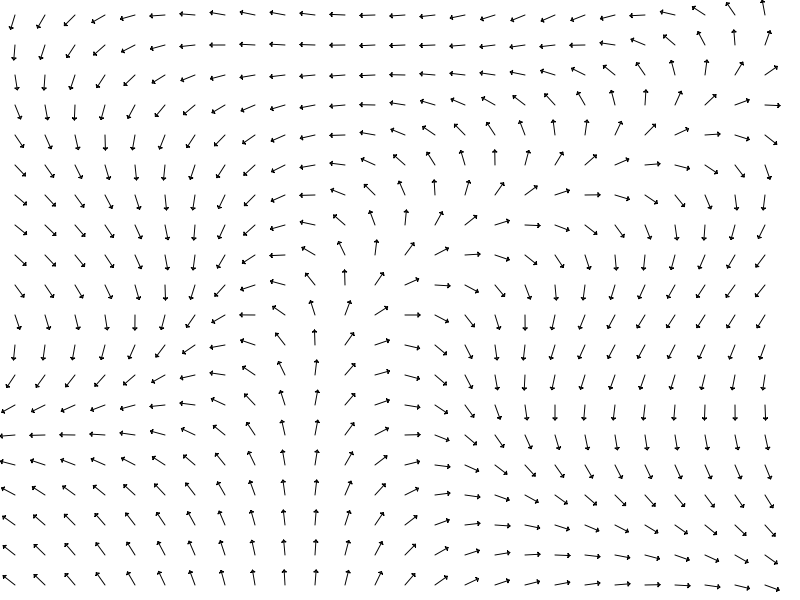
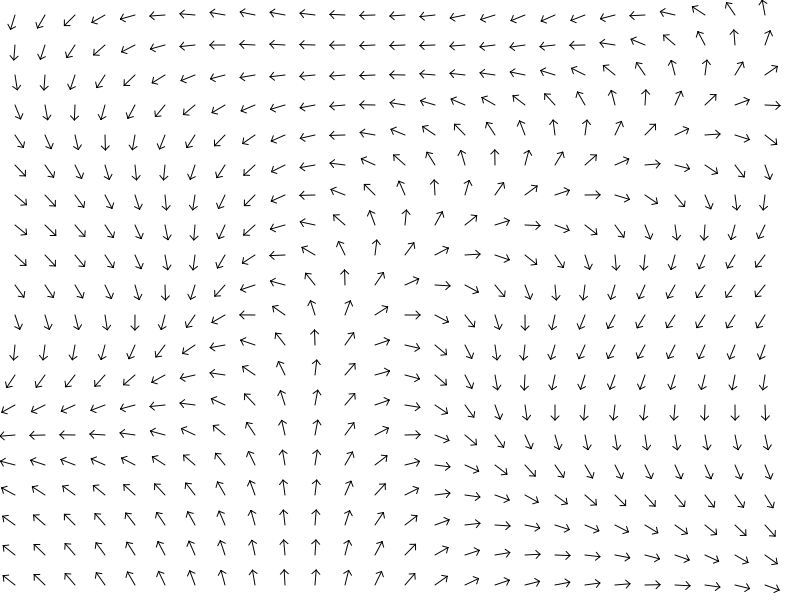
Implement curve simulation

diff --git a/core/renderer.go b/core/renderer.go
@@ -1,6 +1,10 @@
 package core
 
 import (
+	"fmt"
+	"math"
+
+	"github.com/emilwidlund/esmerelda/vectors"
 	"github.com/fogleman/gg"
 )
 
@@ -12,8 +16,8 @@ func Draw(field *VectorField) *gg.Context {
 
 	for y, row := range field.vectors {
 		for x, vector := range row {
-			halfCell := float64(field.cellSize / 2)
-			cellX, cellY := float64(x*field.cellSize)+halfCell, float64(y*field.cellSize)+halfCell
+			halfCell := field.cellSize / 2
+			cellX, cellY := x*field.cellSize+halfCell, y*field.cellSize+halfCell
 
 			if field.arrows {
 				DrawArrow(c, cellX, cellY, vector.Angle(), halfCell)
@@ -21,27 +25,94 @@ func Draw(field *VectorField) *gg.Context {
 		}
 	}
 
+	DrawSimulation(c, field)
+
 	return c
 }
 
-func DrawArrow(c *gg.Context, x float64, y float64, angle float64, length float64) {
-
-	// Initialize context stack
+func DrawArrow(c *gg.Context, x int, y int, angle float64, length int) {
 	c.Push()
 
 	// Arrow
-	c.Translate(x, y)
+	c.Translate(float64(x), float64(y))
 	c.Rotate(-angle)
-	c.DrawLine(0, 0, length, 0)
+	c.DrawLine(0, 0, float64(length), 0)
 	c.Stroke()
 
 	// Arrow Head
-	arowHeadSize := 2.
-	c.DrawLine(length, 0, length-arowHeadSize, -arowHeadSize)
-	c.DrawLine(length-arowHeadSize, -arowHeadSize, length-arowHeadSize, arowHeadSize)
-	c.DrawLine(length-arowHeadSize, arowHeadSize, length, 0)
+	arowHeadSize := 4.
+	ahx := float64(length) - arowHeadSize
+	c.DrawLine(float64(length), 0, ahx, -arowHeadSize)
+	c.DrawLine(ahx, arowHeadSize, float64(length), 0)
 	c.Stroke()
 
-	// Dispose context stack
 	c.Pop()
+}
+
+func DrawSimulation(c *gg.Context, field *VectorField) {
+	DrawCurve(c, field, 20, 30)
+}
+
+func DrawCurve(c *gg.Context, field *VectorField, x int, y int) {
+	const STEP_LENGTH = 1
+	const NUM_STEPS = 500
+
+	c.Push()
+
+	p := vectors.NewVector2(float64(x), float64(y))
+	q := vectors.NewVector2(float64(x), float64(y))
+	n := NUM_STEPS >> 1
+
+	curve := make([]*vectors.Vector2, NUM_STEPS)
+
+	for n > 0 {
+		n--
+		angle := field.GetAngle(int(p.X), int(p.Y))
+		v := vectors.NewVector2(1, 0).Rotate(angle).Scale(STEP_LENGTH)
+		p := p.Add(v)
+		curve = append(curve, p)
+	}
+
+	curve = ReverseCurve(curve)
+	n = NUM_STEPS - (NUM_STEPS >> 1)
+	for n > 0 {
+		n--
+		angle := field.GetAngle(int(q.X), int(q.Y))
+		v := vectors.NewVector2(-1, 0).Rotate(angle).Scale(STEP_LENGTH)
+		q := q.Add(v)
+		curve = append(curve, q)
+	}
+
+	fmt.Println(curve)
+
+	c.Pop()
+}
+
+func Sgn(a float64) int {
+	switch {
+	case a < 0:
+		return -1
+	case a > 0:
+		return +1
+	}
+	return 0
+}
+
+func ShortAngleDist(a0 float64, a1 float64) float64 {
+	max := math.Pi * 2
+	da := float64(Sgn(a1-a0)) * math.Mod(math.Abs(a1-a0), max)
+
+	return float64(Sgn(a1-a0))*math.Mod((2*math.Abs(da)), max) - da
+}
+
+func AngleLerp(a0 float64, a1 float64, t float64) float64 {
+	return a0 + ShortAngleDist(a0, a1)*t
+}
+
+func ReverseCurve(curve []*vectors.Vector2) []*vectors.Vector2 {
+	for i, j := 0, len(curve)-1; i < j; i, j = i+1, j-1 {
+		curve[i], curve[j] = curve[j], curve[i]
+	}
+
+	return curve
 }

diff --git a/core/field.go b/core/field.go
@@ -1,6 +1,8 @@
 package core
 
 import (
+	"math"
+
 	"github.com/emilwidlund/esmerelda/vectors"
 )
 
@@ -15,6 +17,27 @@ type VectorField struct {
 	arrows   bool
 	vectors  [][]*vectors.Vector2
 	formula  Formula
+}
+
+func (field *VectorField) GetCell(x int, y int) *vectors.Vector2 {
+	return field.vectors[y][x]
+}
+
+func (field *VectorField) GetCellIndex(x int, y int) (int, int) {
+	return int(math.Floor((float64((x)) / float64(field.cellSize)))), int(math.Floor(float64(y) / float64(field.cellSize)))
+}
+
+func (field *VectorField) GetAngle(x int, y int) float64 {
+	ix, iy := field.GetCellIndex(x, y)
+
+	alphaX := float64((x % field.cellSize) / field.cellSize)
+	alphaY := float64((y % field.cellSize) / field.cellSize)
+
+	return AngleLerp(
+		AngleLerp(field.GetCell(ix, iy).Angle(), field.GetCell(ix+1, iy).Angle(), alphaX),
+		AngleLerp(field.GetCell(ix, iy+1).Angle(), field.GetCell(ix+1, iy+1).Angle(), alphaX),
+		alphaY,
+	)
 }
 
 func NewVectorField(width int, height int, arrows bool, formula Formula) *VectorField {

diff --git a/vectors/vector2.go b/vectors/vector2.go
@@ -69,8 +69,11 @@ func (vector *Vector2) DivideScalar(scalar float64) *Vector2 {
 	return vector
 }
 
-func (vector *Vector2) Magnitude() float64 {
-	return math.Sqrt(math.Pow(vector.X, 2) + math.Pow(vector.Y, 2))
+func (vector *Vector2) Scale(scalar float64) *Vector2 {
+	vector.X *= scalar
+	vector.Y *= scalar
+
+	return vector
 }
 
 func (vector *Vector2) Normalize() *Vector2 {
@@ -81,6 +84,19 @@ func (vector *Vector2) Normalize() *Vector2 {
 	} else {
 		return vector.DivideScalar(magnitude)
 	}
+}
+
+func (vector *Vector2) Rotate(angle float64) *Vector2 {
+	c, s := math.Cos(angle), math.Sin(angle)
+
+	vector.X = vector.X*c - vector.Y*s
+	vector.Y = vector.X*s + vector.Y*c
+
+	return vector
+}
+
+func (vector *Vector2) Magnitude() float64 {
+	return math.Sqrt(math.Pow(vector.X, 2) + math.Pow(vector.Y, 2))
 }
 
 func (a *Vector2) DistanceTo(b *Vector2) float64 {
